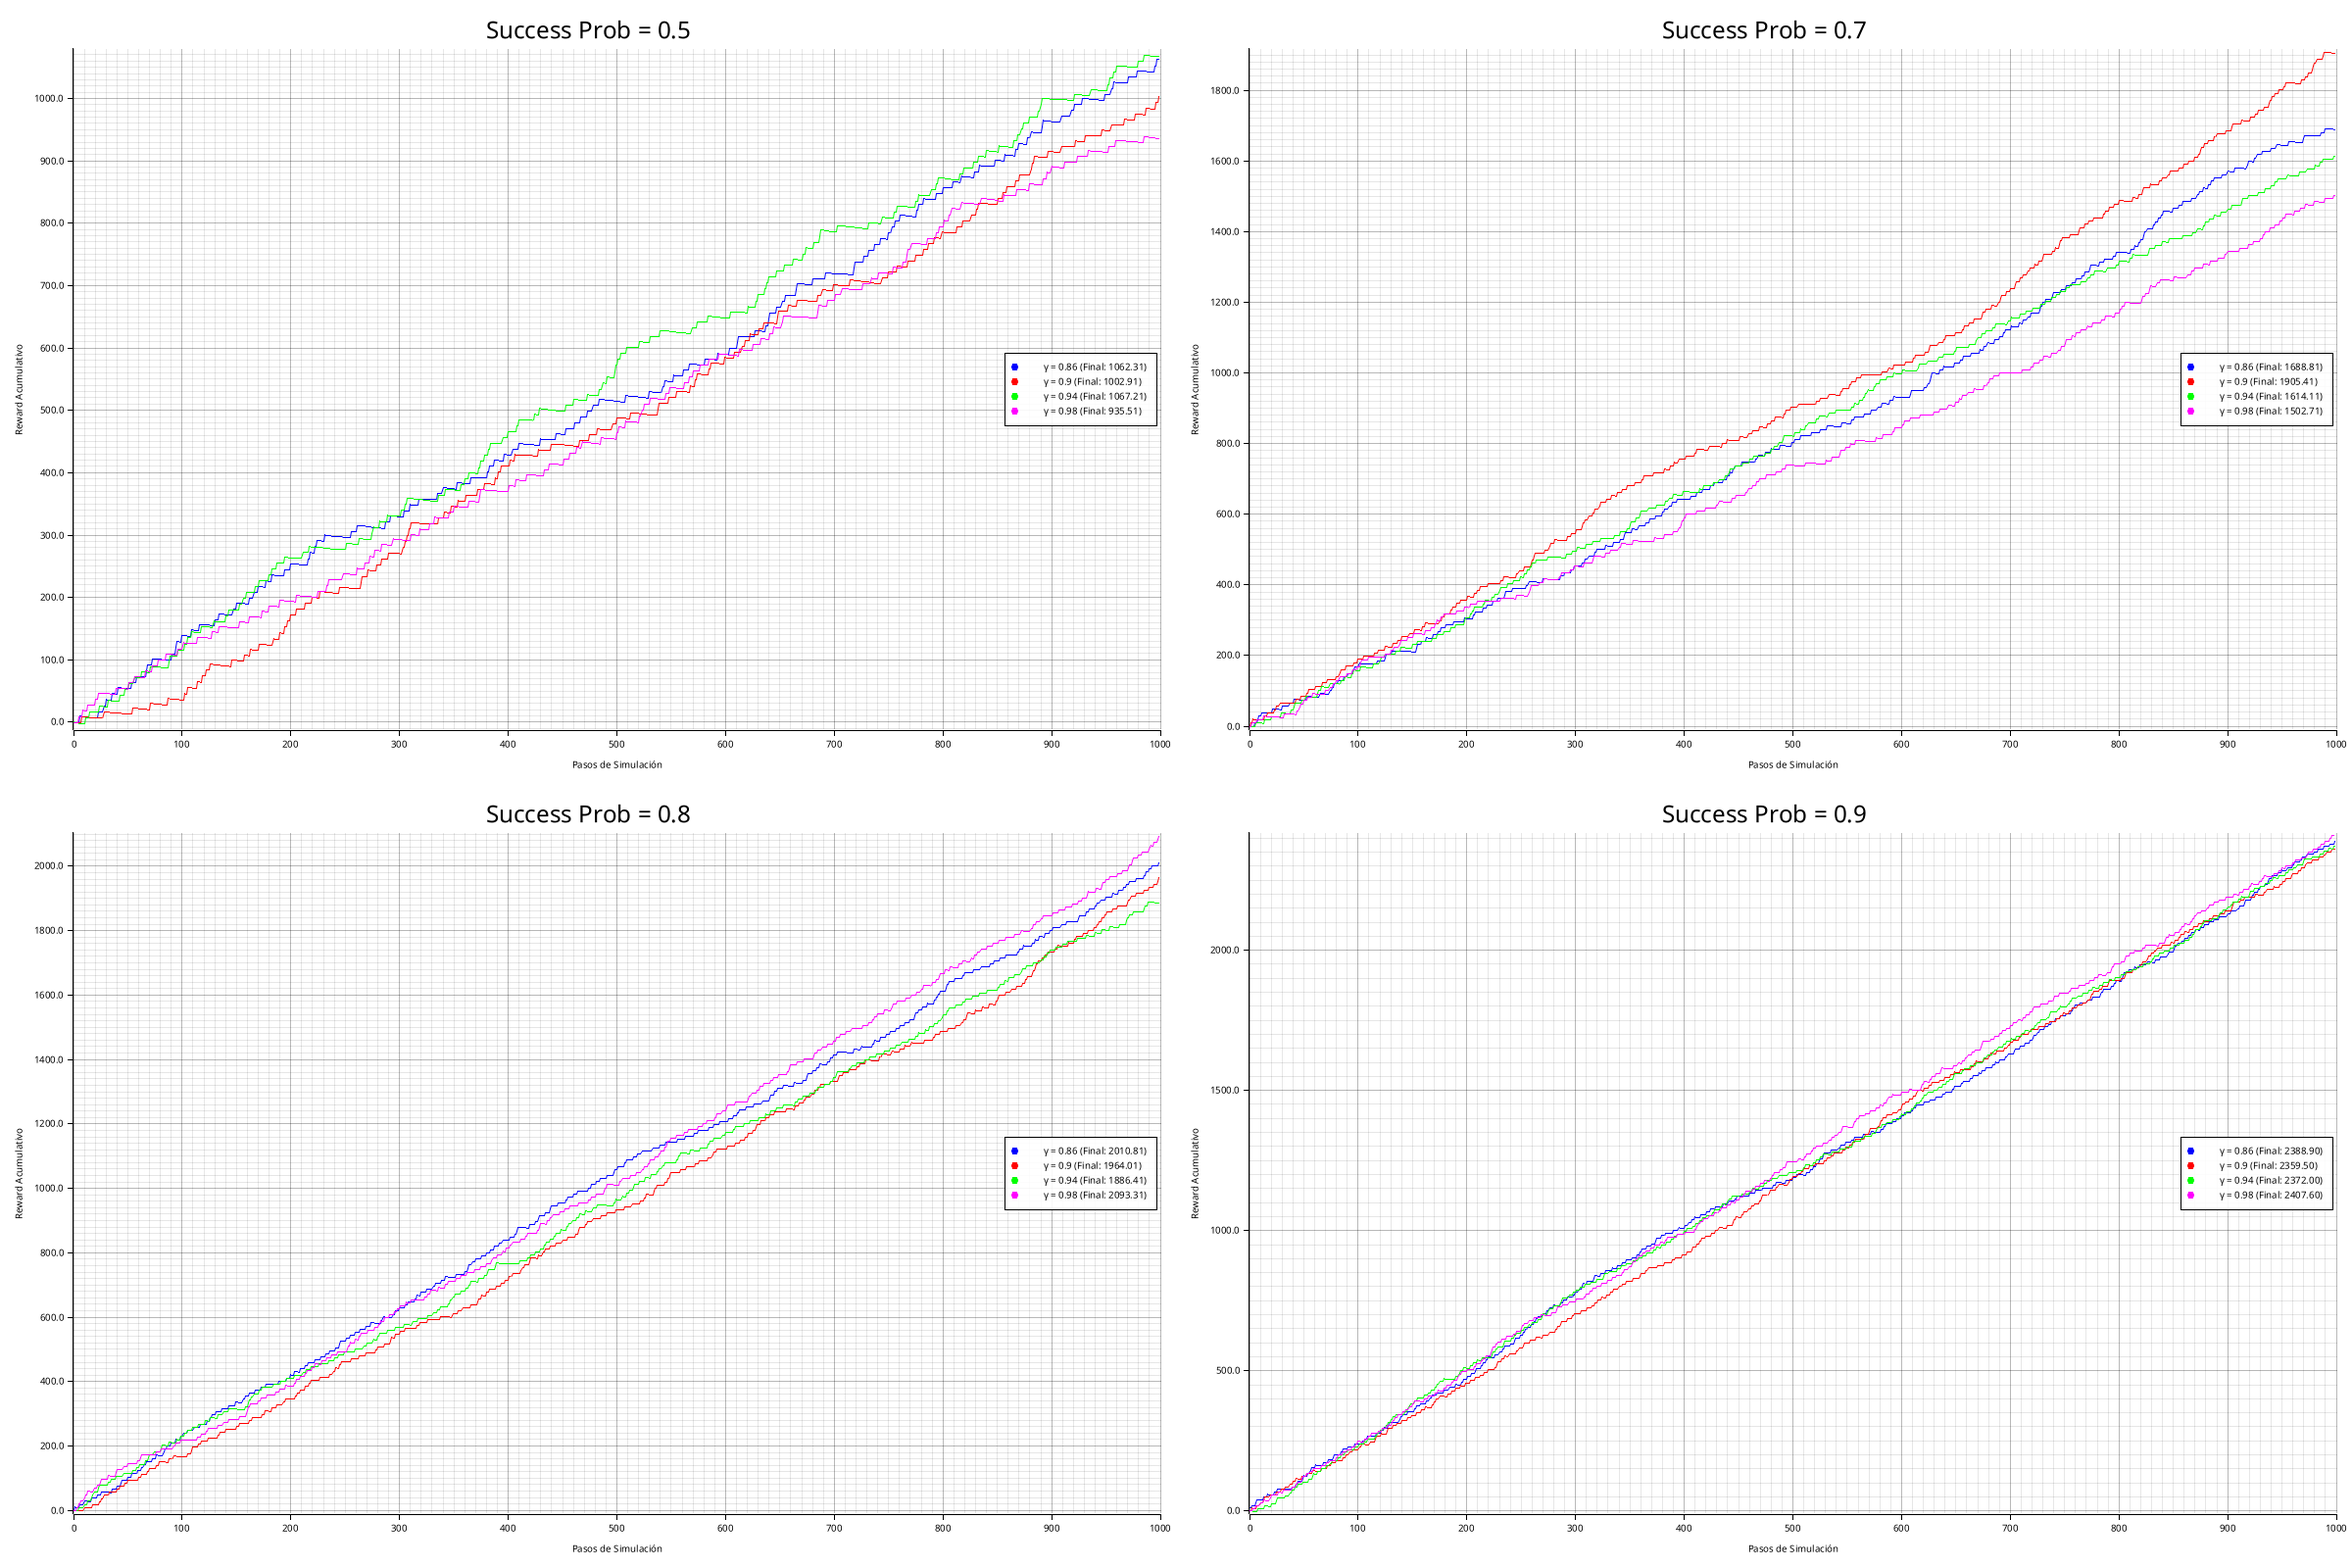
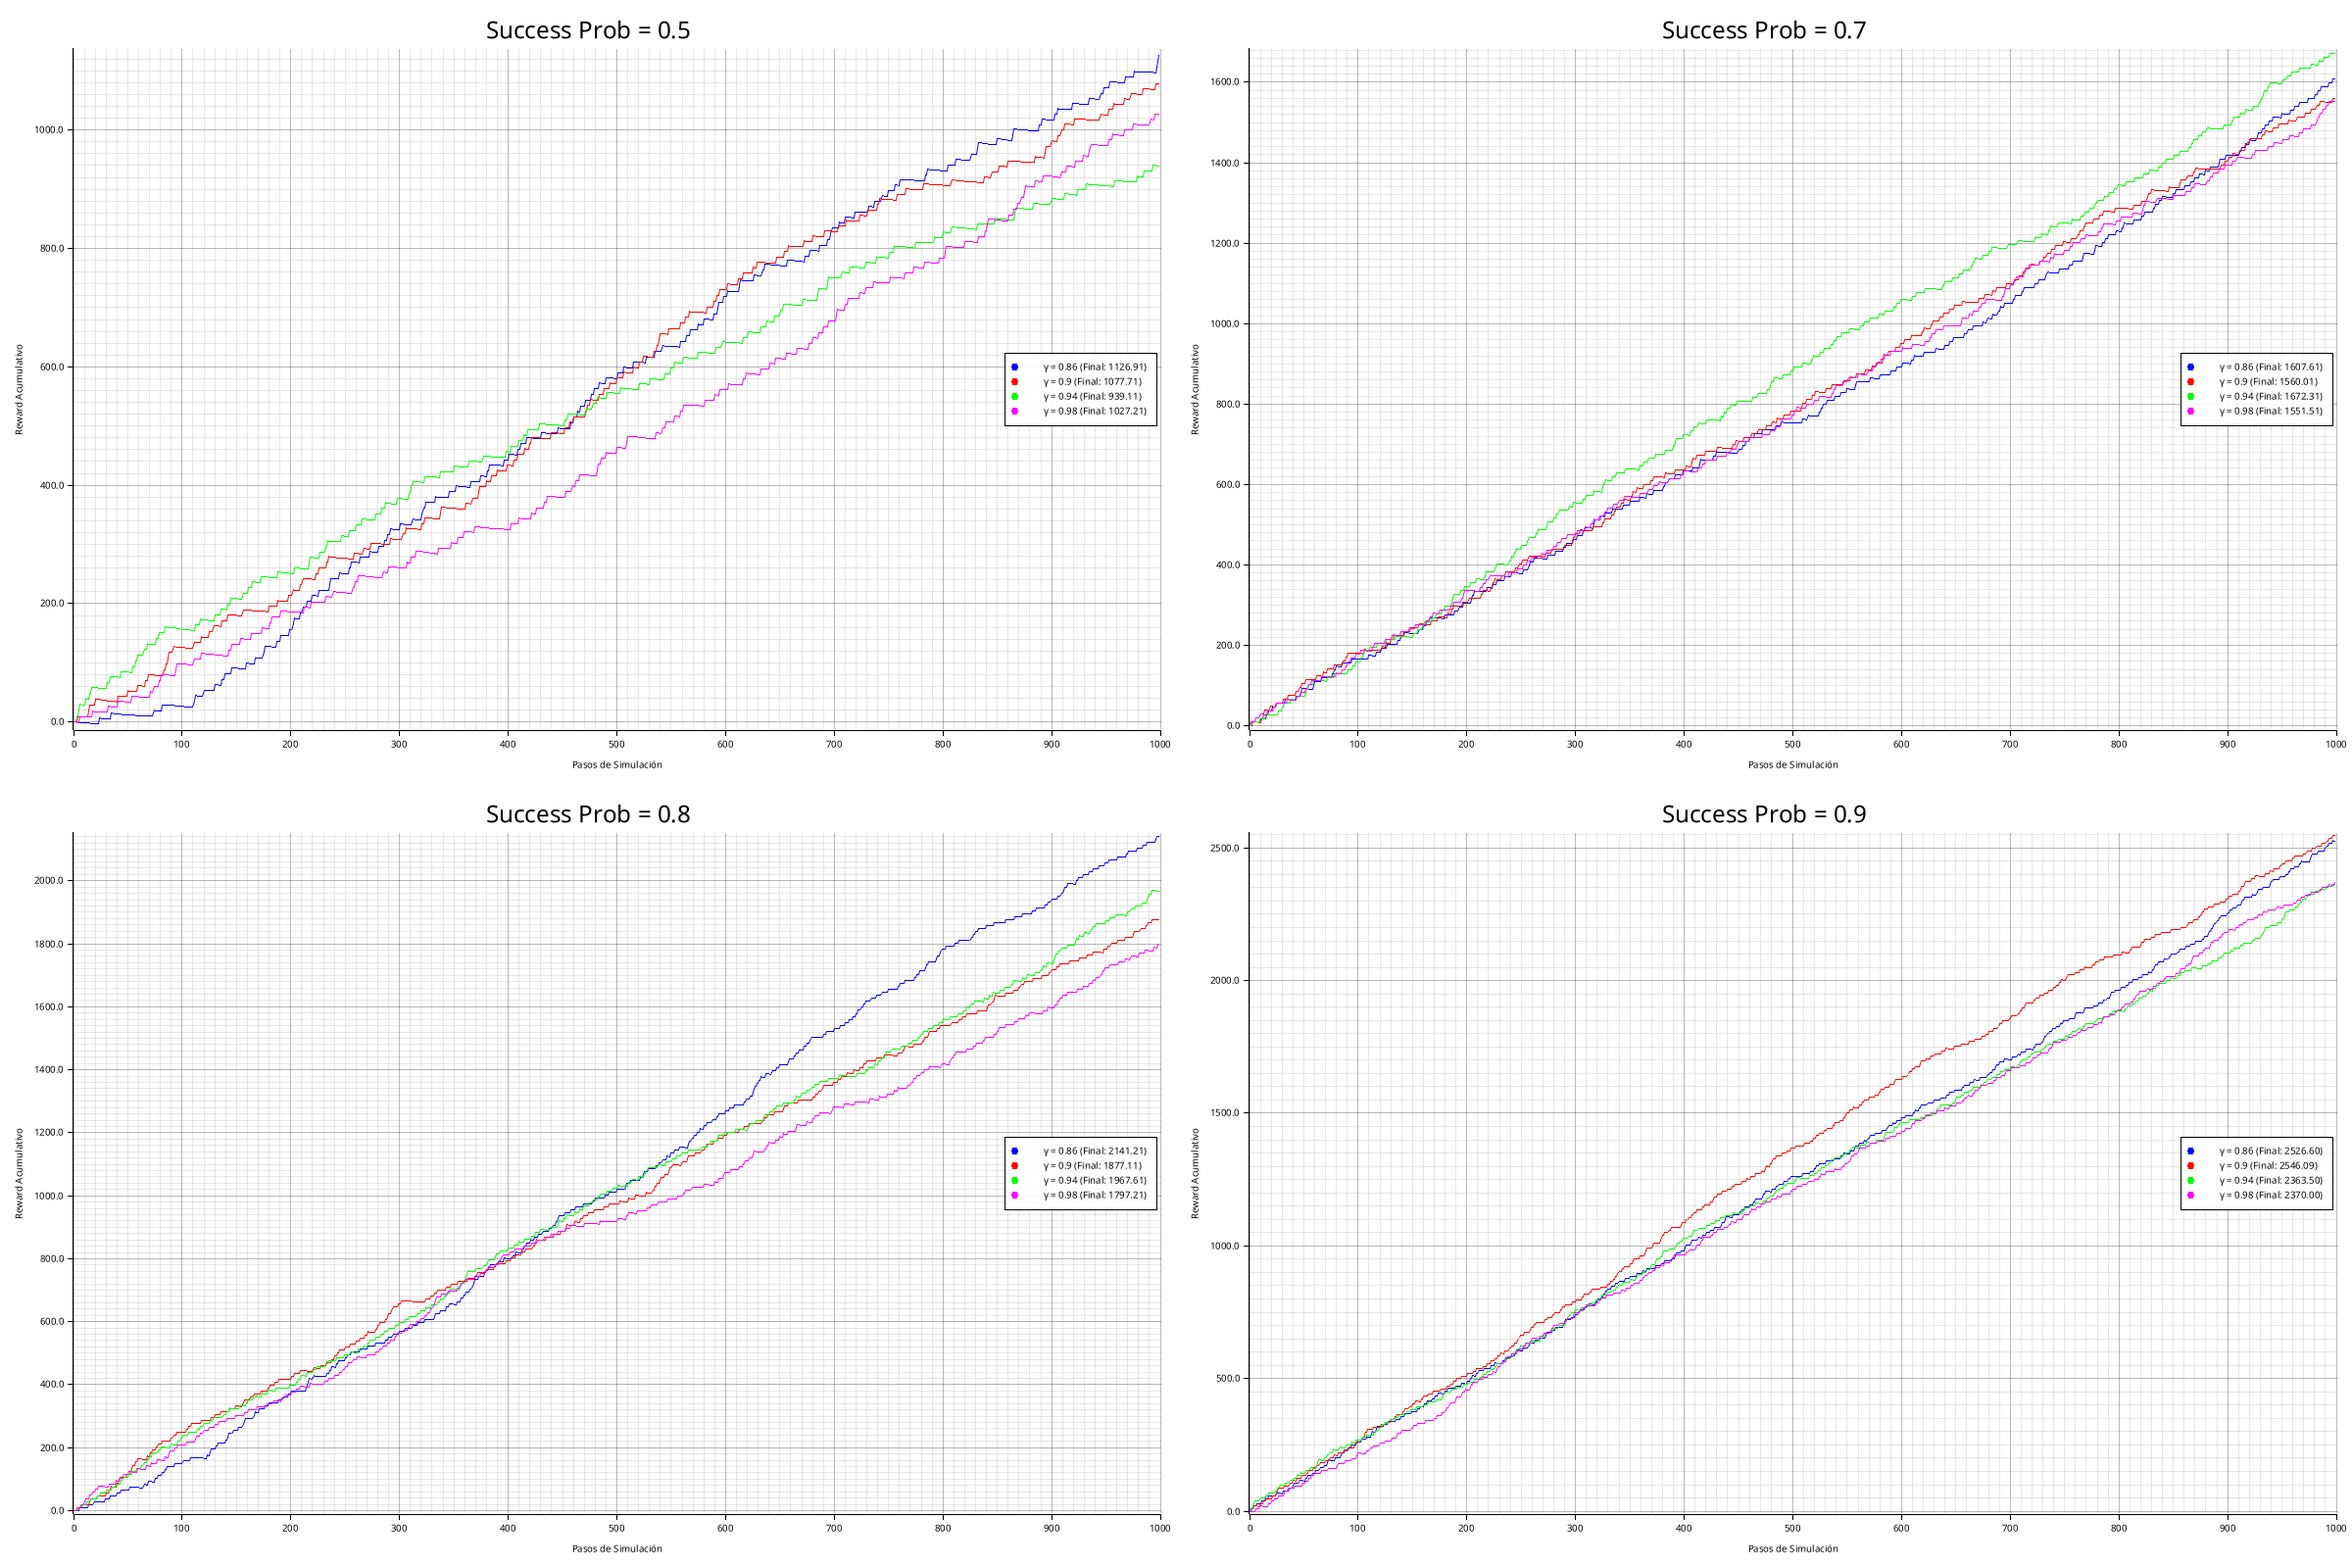
feat:

diff --git a/markov-dp/src/core.rs b/markov-dp/src/core.rs
@@ -1,6 +1,5 @@
 use std::{thread, time::Duration};
 
-use rand::{SeedableRng, rngs::StdRng};
 use raylib::prelude::*;
 
 use crate::{DISCOUNT_FACTORS, map::Map, mdp::Mdp, robot::Robot};
@@ -11,7 +10,6 @@ pub struct Core {
     pub robot: Robot,
     pub simulation_steps: u32,
     pub rewards: Vec<f32>,
-    random: StdRng,
 }
 
 impl Core {
@@ -23,9 +21,7 @@ impl Core {
 
         mdp.value_iteration(discount_factors[discount_factor_id]);
 
-        let mut random = StdRng::from_os_rng();
-
-        let initial_position = map.get_random_valid_position(&mut random);
+        let initial_position = map.get_random_valid_position();
         let robot = Robot::new(initial_position, success_prob);
 
         Self {
@@ -34,49 +30,55 @@ impl Core {
             robot,
             simulation_steps: 0,
             rewards: vec![],
-            random,
         }
     }
 
     pub fn reset_robot(&mut self) {
-        let new_position = self.map.get_random_valid_position(&mut self.random);
+        let new_position = self.map.get_random_valid_position();
         self.robot.set_position(new_position);
     }
 
-    pub fn run_parallel_simulation() -> Vec<Vec<Vec<f32>>> {
-        let mut handles = vec![];
+    pub fn run_simulation() -> Vec<Vec<Vec<f32>>> {
+        // Calcular la matriz de transición una sola vez
+        let map = Map::new();
+        let transition_matrix = Mdp::build_transition_matrix_static(&map);
 
-        for success_prob in 0..4 {
-            for discount_factor in 0..4 {
-                let handle = thread::spawn(move || {
-                    let mut core = Core::new(discount_factor, success_prob);
+        let mut results = vec![vec![vec![]; 4]; 4];
+        let discount_factors = DISCOUNT_FACTORS.to_vec();
 
-                    while core.simulation_steps < 1000 {
-                        core.simulate(None);
-                    }
-
-                    core.rewards
-                });
-
-                handles.push(handle);
-            }
+        // Crear MDPs para cada discount factor (solo 4 en lugar de 16)
+        let mut mdps = Vec::new();
+        for &discount_factor in &discount_factors {
+            let mut mdp = Mdp::new_with_transition_matrix(map.clone(), transition_matrix.clone());
+            mdp.value_iteration(discount_factor);
+            mdps.push(mdp);
         }
 
-        // Recolectar todos los resultados primero
-        let all_results: Vec<Vec<f32>> = handles
-            .into_iter()
-            .map(|handle| handle.join().unwrap())
-            .collect();
-
-        // Organizamos los resultados en la matriz 3D
-        // results[success_prob][discount_factor] = rewards
-        let mut results = vec![vec![vec![]; 4]; 4];
-        let mut result_index = 0;
-
+        // Ahora ejecutar simulaciones reutilizando los MDPs
         for success_prob in 0..4 {
             for discount_factor in 0..4 {
-                results[success_prob][discount_factor] = all_results[result_index].clone();
-                result_index += 1;
+                // Crear un robot para esta combinación específica
+                let initial_position = map.get_random_valid_position();
+                let mut robot = Robot::new(initial_position, success_prob);
+
+                let mut simulation_steps = 0;
+                let mut rewards = vec![];
+
+                // Ejecutar simulación directamente sin crear un Core completo
+                while simulation_steps < 1000 {
+                    robot.update(&mdps[discount_factor].get_max_policy(), &map);
+
+                    simulation_steps += 1;
+                    let robot_pos = robot.get_matricial_position();
+                    rewards.push(map.states[robot_pos[0]][robot_pos[1]].reward);
+
+                    if robot.get_position() == map.get_goal_position() {
+                        let new_position = map.get_random_valid_position();
+                        robot.set_position(new_position);
+                    }
+                }
+
+                results[success_prob][discount_factor] = rewards;
             }
         }
 

diff --git a/markov-dp/src/mdp.rs b/markov-dp/src/mdp.rs
@@ -23,7 +23,15 @@ impl Mdp {
         mdp
     }
 
-    fn build_transition_matrix(&mut self) {
+    pub fn new_with_transition_matrix(map: Map, transition_matrix: Vec<Vec<Vec<f32>>>) -> Self {
+        Self {
+            map,
+            transition_matrix,
+            q_values: vec![vec![0.0; 4]; N_STATES],
+        }
+    }
+
+    pub fn build_transition_matrix_static(map: &Map) -> Vec<Vec<Vec<f32>>> {
         // matrices[action][from][to]
         let mut matrices = vec![
             vec![vec![0.0; N_STATES]; N_STATES], // North
@@ -40,7 +48,7 @@ impl Mdp {
             [(0, -1), (1, 0), (-1, 0)], // West: principal, izquierda(S), derecha(N)
         ];
 
-        for (i, row) in self.map.states.iter().enumerate() {
+        for (i, row) in map.states.iter().enumerate() {
             for (j, status) in row.iter().enumerate() {
                 let idx = i * N_COLS + j;
 
@@ -59,7 +67,7 @@ impl Mdp {
                             let ni = ni as usize;
                             let nj = nj as usize;
 
-                            let next_status = &self.map.states[ni][nj];
+                            let next_status = &map.states[ni][nj];
                             let next_idx = ni * N_COLS + nj;
 
                             if next_status.r#type == StatusType::Wall {
@@ -77,7 +85,11 @@ impl Mdp {
             }
         }
 
-        self.transition_matrix = matrices;
+        matrices
+    }
+
+    fn build_transition_matrix(&mut self) {
+        self.transition_matrix = Self::build_transition_matrix_static(&self.map);
     }
 
     pub fn value_iteration(&mut self, discount_factor: f32) {

diff --git a/markov-dp/src/main.rs b/markov-dp/src/main.rs
@@ -17,19 +17,26 @@ pub const DISCOUNT_FACTORS: [f32; 4] = [0.86, 0.90, 0.94, 0.98];
 pub const SUCCESS_PROBABILITIES: [f32; 4] = [0.5, 0.7, 0.8, 0.9];
 
 fn main() {
-    println!("Iniciando simulaciones paralelas...");
+    println!("🎯 MDP Robotics - Simulación Optimizada");
+    println!("=======================================\n");
 
-    let results = Core::run_parallel_simulation();
+    println!("🚀 Ejecutando simulación optimizada...");
+    let start_time = std::time::Instant::now();
+    let results = Core::run_simulation();
+    let duration = start_time.elapsed();
+    println!("⏱  Simulación completada en: {:?}\n", duration);
 
+    println!("📈 Generando gráficos con los resultados...");
     graphics::graphic(&results);
 
-    println!("Resultados de las simulaciones paralelas:");
+    println!("✅ Gráficos generados en la carpeta analytics/");
+    println!("\n🎮 Iniciando visualización interactiva...");
 
     let mut visual_core = Core::new(0, 3);
 
     let (mut rlib, thread) = raylib::init()
         .size(800, 600)
-        .title("MDP Robotics - INFO1167")
+        .title("MDP Robotics - INFO1167 (Optimizado)")
         .msaa_4x()
         .vsync()
         .build();

diff --git a/markov-dp/src/map.rs b/markov-dp/src/map.rs
@@ -92,10 +92,10 @@ impl Map {
         self.states[grid_y][grid_x].r#type != StatusType::Wall
     }
 
-    pub fn get_random_valid_position(&self, rng: &mut impl rand::Rng) -> Vector2 {
+    pub fn get_random_valid_position(&self) -> Vector2 {
         loop {
-            let grid_x = rng.random_range(0..N_COLS);
-            let grid_y = rng.random_range(0..N_ROWS);
+            let grid_x = rand::random_range(0..N_COLS);
+            let grid_y = rand::random_range(0..N_ROWS);
 
             let position = Vector2::new(
                 grid_x as f32 * TILE_SIZE + TILE_SIZE / 2.0,
